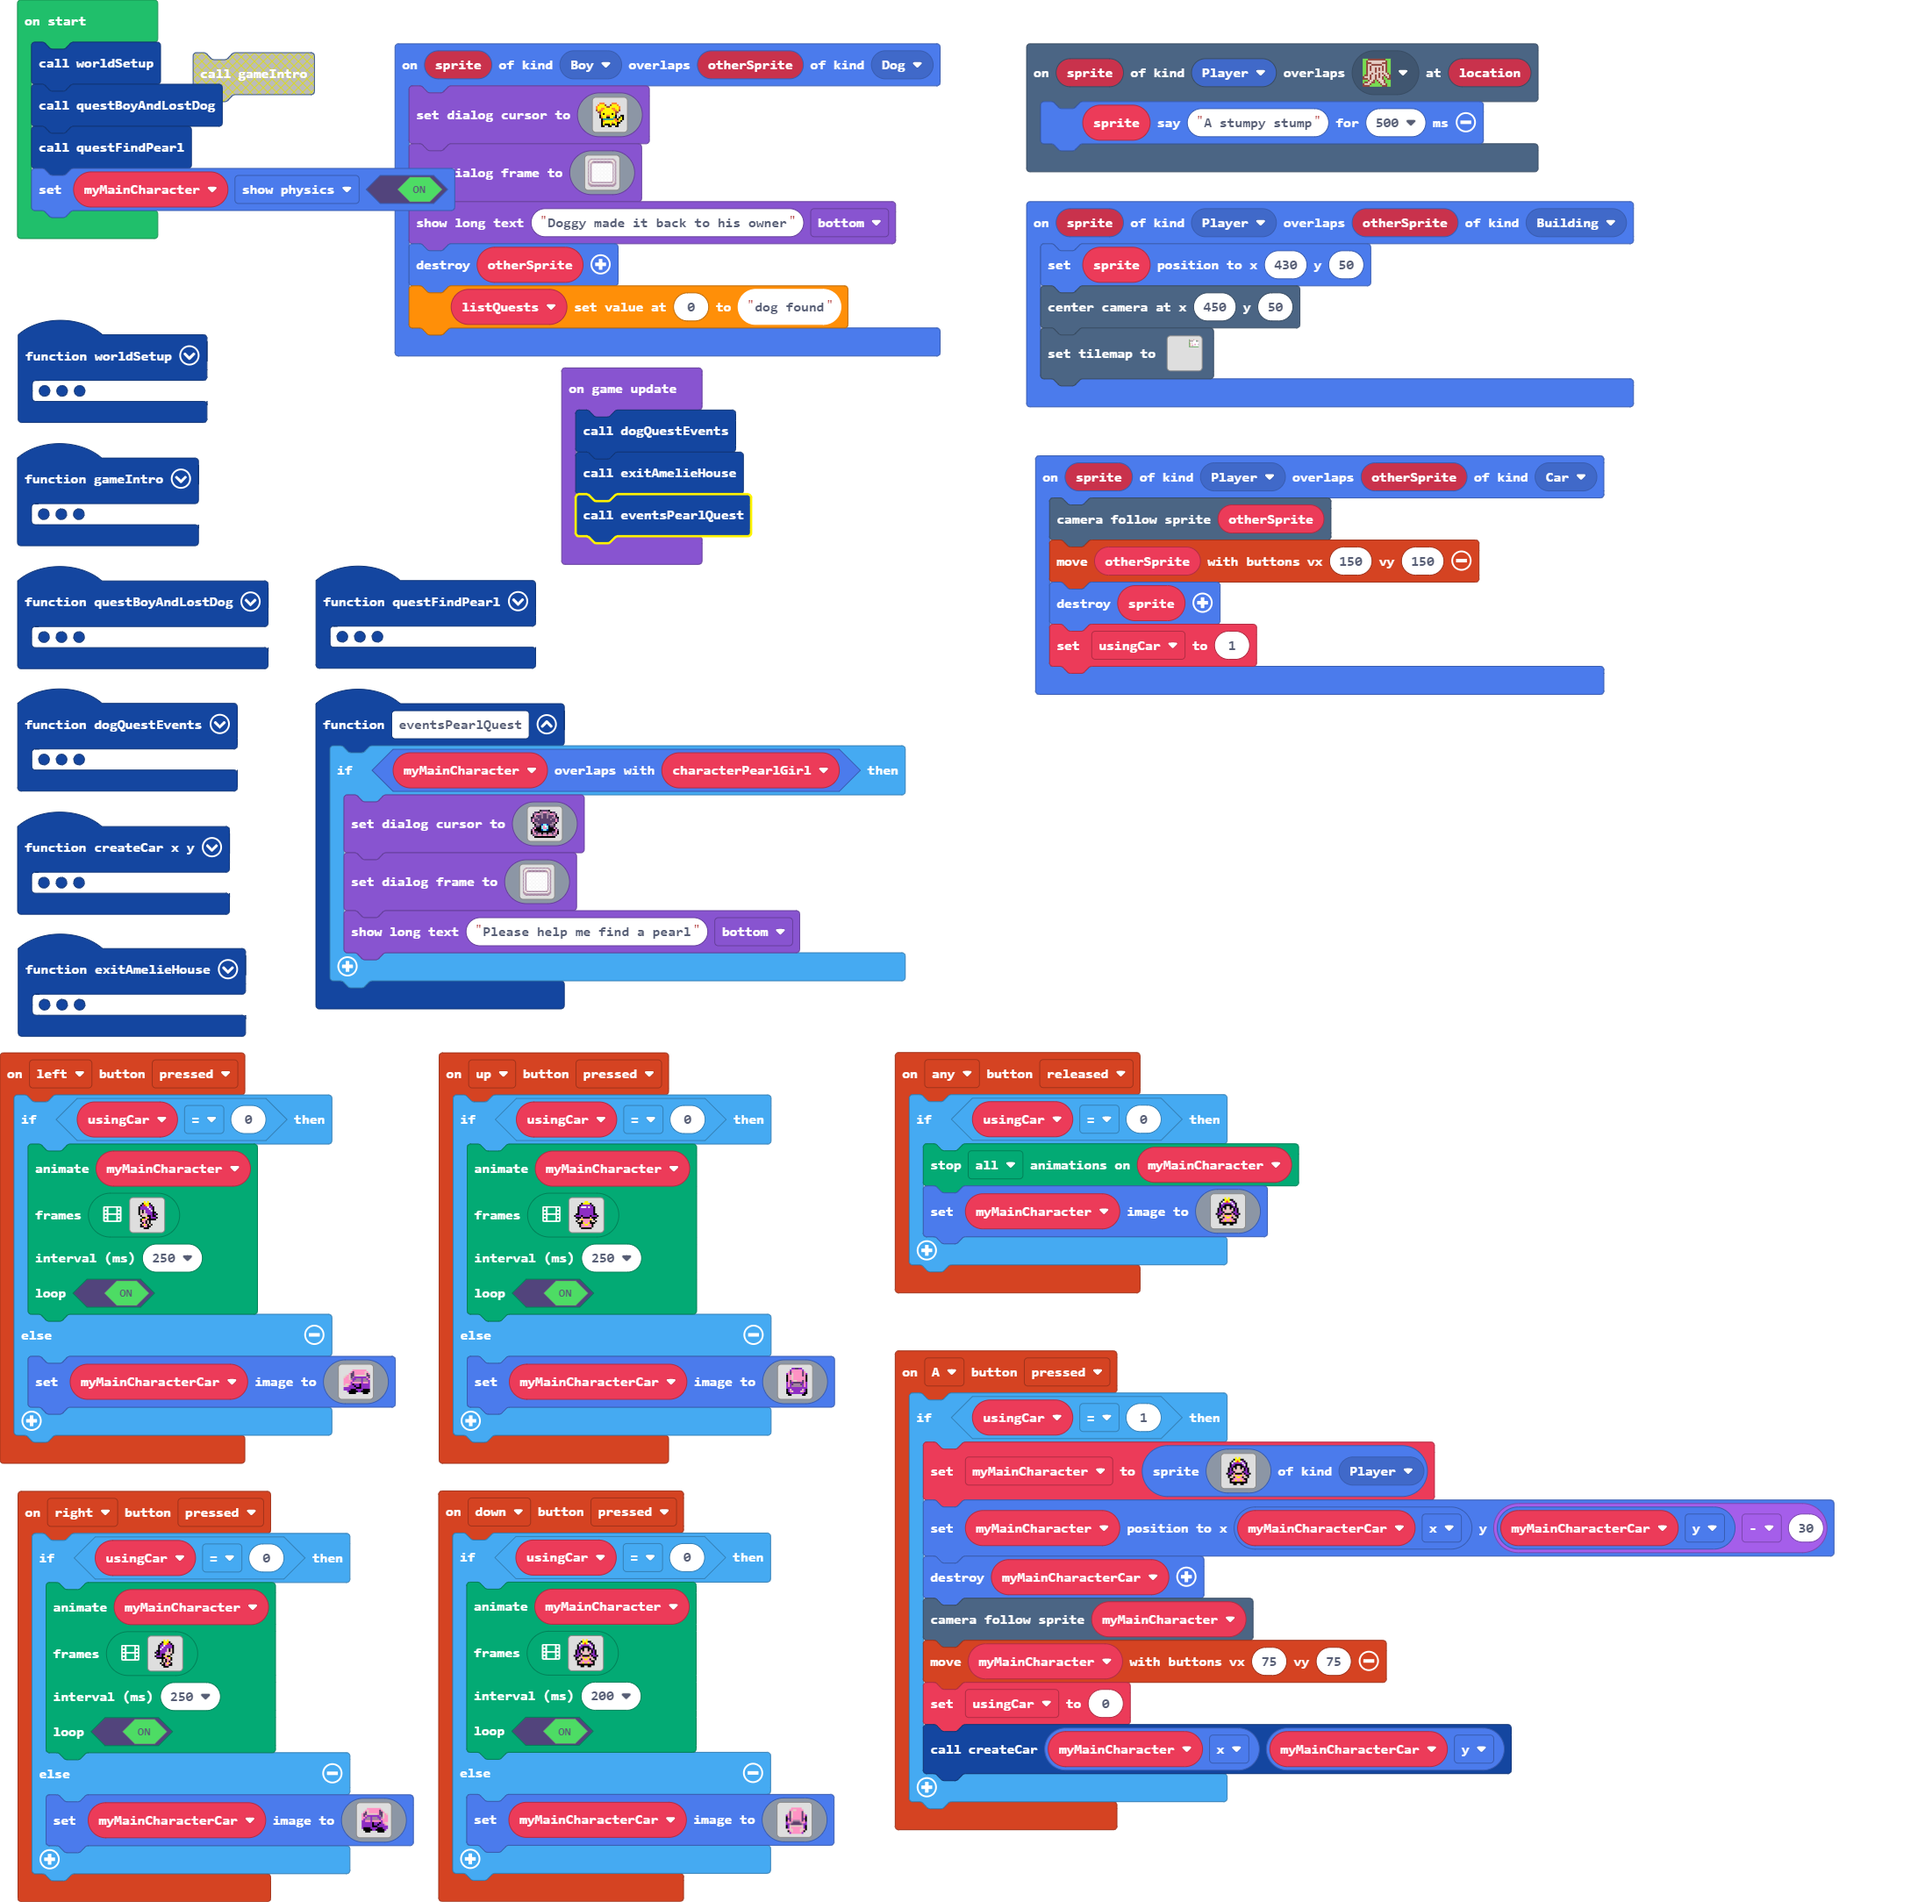
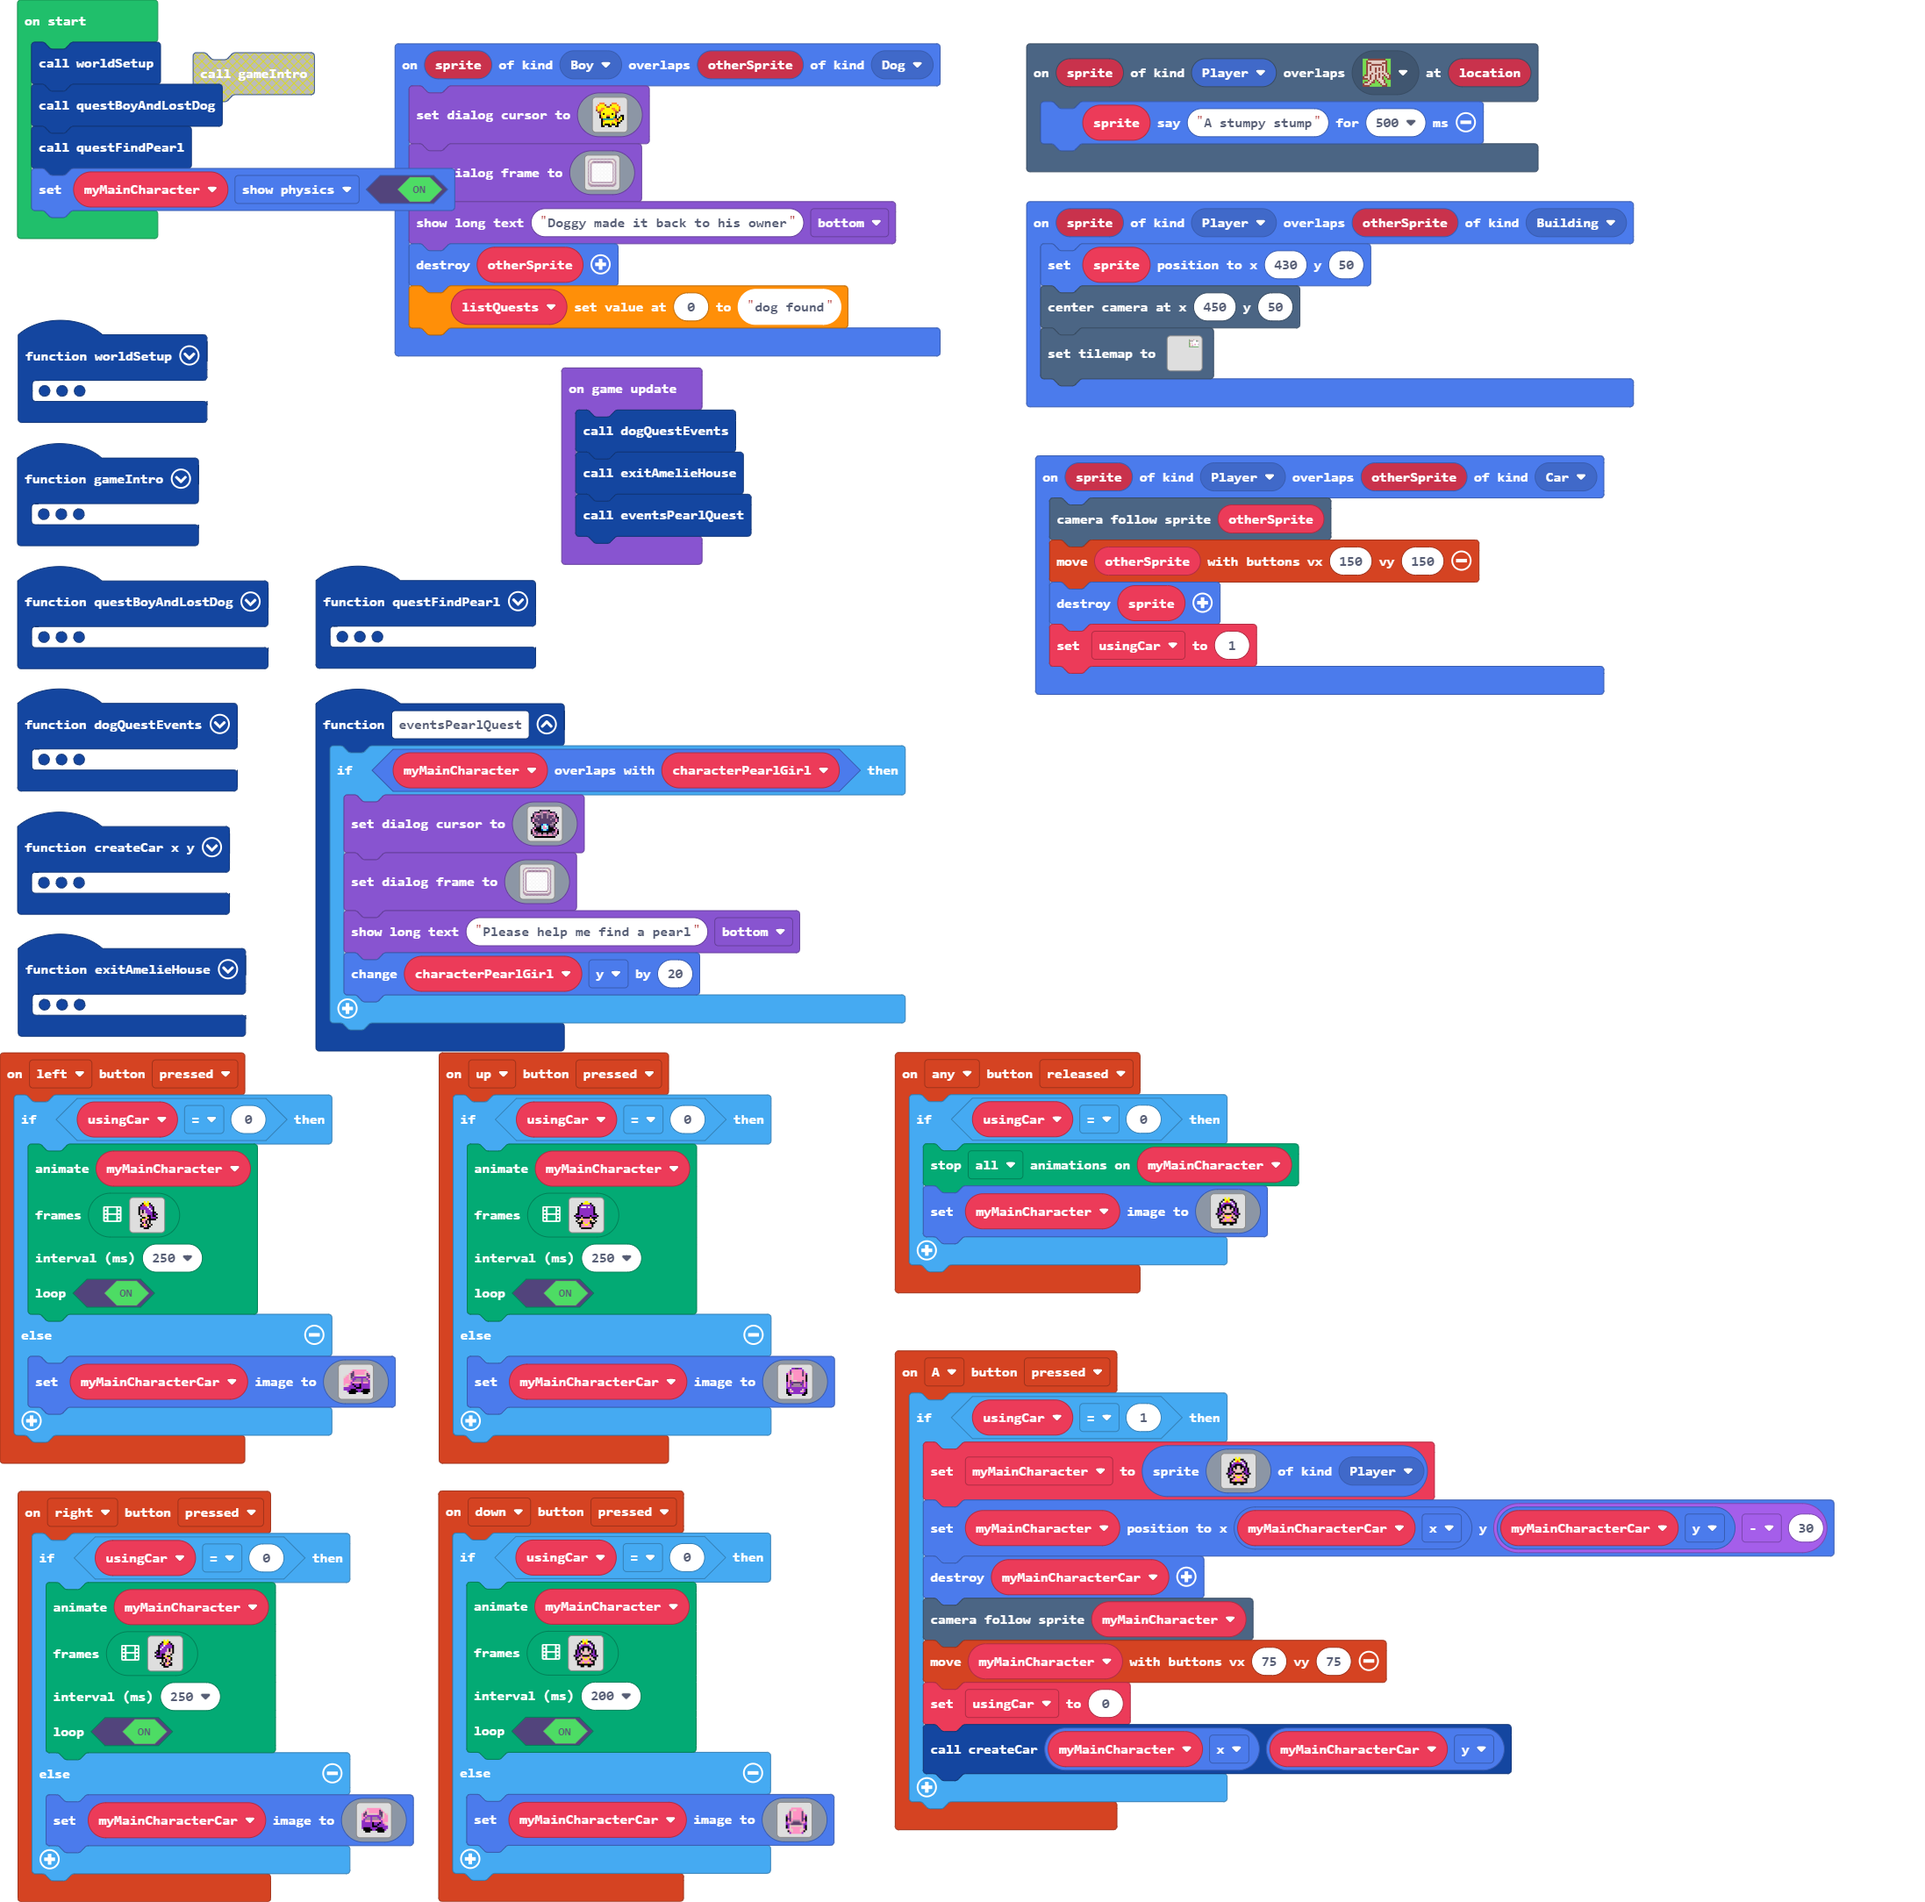
fixed bug

Changed region(s): [[0.155, 0.4945, 0.4959, 0.5563]]

diff --git a/images.g.ts b/images.g.ts
@@ -649,6 +649,84 @@ bbd111111111111111111dbb
 .bbbbbbbbbbbbbbbbbbbbbb.
 ..bbbbbbbbbbbbbbbbbbbb..
 `;
+            case "image28":return img`
+..bbbbbbbbbbbbbbbbbbbb..
+.bd111111111111111111db.
+bd1dbbbbbbbbbbbbbbbbd1db
+b1dbbbbbbbbbbbbbbbbbbd1b
+b1bd1111111111111111db1b
+b1b111111111111111111b1b
+b1b111111111111111111b1b
+b1b111111111111111111b1b
+b1b111111111111111111b1b
+b1b111111111111111111b1b
+b1b111111111111111111b1b
+b1b111111111111111111b1b
+b1b111111111111111111b1b
+b1b111111111111111111b1b
+b1b111111111111111111b1b
+b1b111111111111111111b1b
+b1b111111111111111111b1b
+b1b111111111111111111b1b
+b1b111111111111111111b1b
+b1bd1111111111111111db1b
+bd1bbbbbbbbbbbbbbbbbb1db
+bbd111111111111111111dbb
+.bbbbbbbbbbbbbbbbbbbbbb.
+..bbbbbbbbbbbbbbbbbbbb..
+`;
+            case "image29":return img`
+..bbbbbbbbbbbbbbbbbbbb..
+.bd111111111111111111db.
+bd1dbbbbbbbbbbbbbbbbd1db
+b1dbbbbbbbbbbbbbbbbbbd1b
+b1bd1111111111111111db1b
+b1b111111111111111111b1b
+b1b111111111111111111b1b
+b1b111111111111111111b1b
+b1b111111111111111111b1b
+b1b111111111111111111b1b
+b1b111111111111111111b1b
+b1b111111111111111111b1b
+b1b111111111111111111b1b
+b1b111111111111111111b1b
+b1b111111111111111111b1b
+b1b111111111111111111b1b
+b1b111111111111111111b1b
+b1b111111111111111111b1b
+b1b111111111111111111b1b
+b1bd1111111111111111db1b
+bd1bbbbbbbbbbbbbbbbbb1db
+bbd111111111111111111dbb
+.bbbbbbbbbbbbbbbbbbbbbb.
+..bbbbbbbbbbbbbbbbbbbb..
+`;
+            case "image30":return img`
+..bbbbbbbbbbbbbbbbbbbb..
+.bd111111111111111111db.
+bd1dbbbbbbbbbbbbbbbbd1db
+b1dbbbbbbbbbbbbbbbbbbd1b
+b1bd1111111111111111db1b
+b1b111111111111111111b1b
+b1b111111111111111111b1b
+b1b111111111111111111b1b
+b1b111111111111111111b1b
+b1b111111111111111111b1b
+b1b111111111111111111b1b
+b1b111111111111111111b1b
+b1b111111111111111111b1b
+b1b111111111111111111b1b
+b1b111111111111111111b1b
+b1b111111111111111111b1b
+b1b111111111111111111b1b
+b1b111111111111111111b1b
+b1b111111111111111111b1b
+b1bd1111111111111111db1b
+bd1bbbbbbbbbbbbbbbbbb1db
+bbd111111111111111111dbb
+.bbbbbbbbbbbbbbbbbbbbbb.
+..bbbbbbbbbbbbbbbbbbbb..
+`;
         }
         return null;
     })

diff --git a/main.ts b/main.ts
@@ -508,6 +508,7 @@ function eventsPearlQuest () {
             ..bbbbbbbbbbbbbbbbbbbb..
             `)
         game.showLongText("Please help me find a pearl", DialogLayout.Bottom)
+        characterPearlGirl.y += 20
     }
 }
 function worldSetup () {
